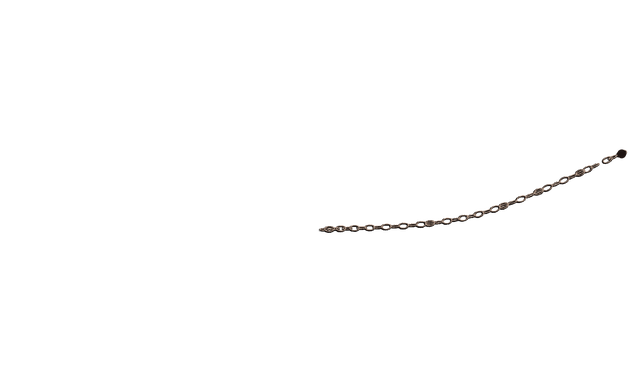
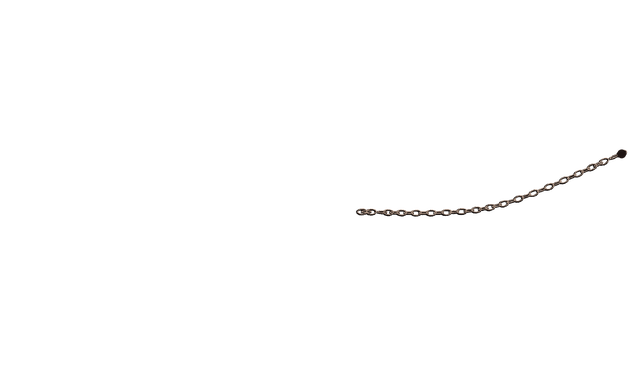
Fonderie : Moulinette dans une cage, chaînes accrochées aux barreaux, cage ouverte quand tout est brisé

Changed region(s): [[0.5, 0.4173, 0.9688, 0.6558]]

diff --git a/moteur/fonderie.c b/moteur/fonderie.c
@@ -53,10 +53,10 @@ static int	composer_fo(const int *etat)
 		free(g_fc);
 		g_fw = b->w;
 		g_fh = b->h;
-		g_cx0 = g_fw * 30 / 100;
-		g_cy0 = g_fh * 8 / 100;
-		g_cw = g_fw * 40 / 100;
-		g_ch = g_fh * 84 / 100;
+		g_cx0 = g_fw * 32 / 100;
+		g_cy0 = g_fh * 30 / 100;
+		g_cw = g_fw * 36 / 100;
+		g_ch = g_fh * 66 / 100;
 		g_fo = malloc((size_t)g_fw * g_fh * 3);
 		g_fc = malloc((size_t)g_cw * g_ch * 3);
 		if (!g_fo || !g_fc)
@@ -71,8 +71,7 @@ static int	composer_fo(const int *etat)
 		empiler_fo(art_pic(nom));
 		libre &= etat[i] != 0;
 	}
-	if (!libre)
-		empiler_fo(art_pic("fonderie_collier"));
+	empiler_fo(art_pic(libre ? "fonderie_cage_ouverte" : "fonderie_cage"));
 	for (y = 0; y < g_ch; y++)
 		memcpy(g_fc + (size_t)y * g_cw * 3, g_fo + ((size_t)(g_cy0 + y) * g_fw + g_cx0) * 3, (size_t)g_cw * 3);
 	return (1);
